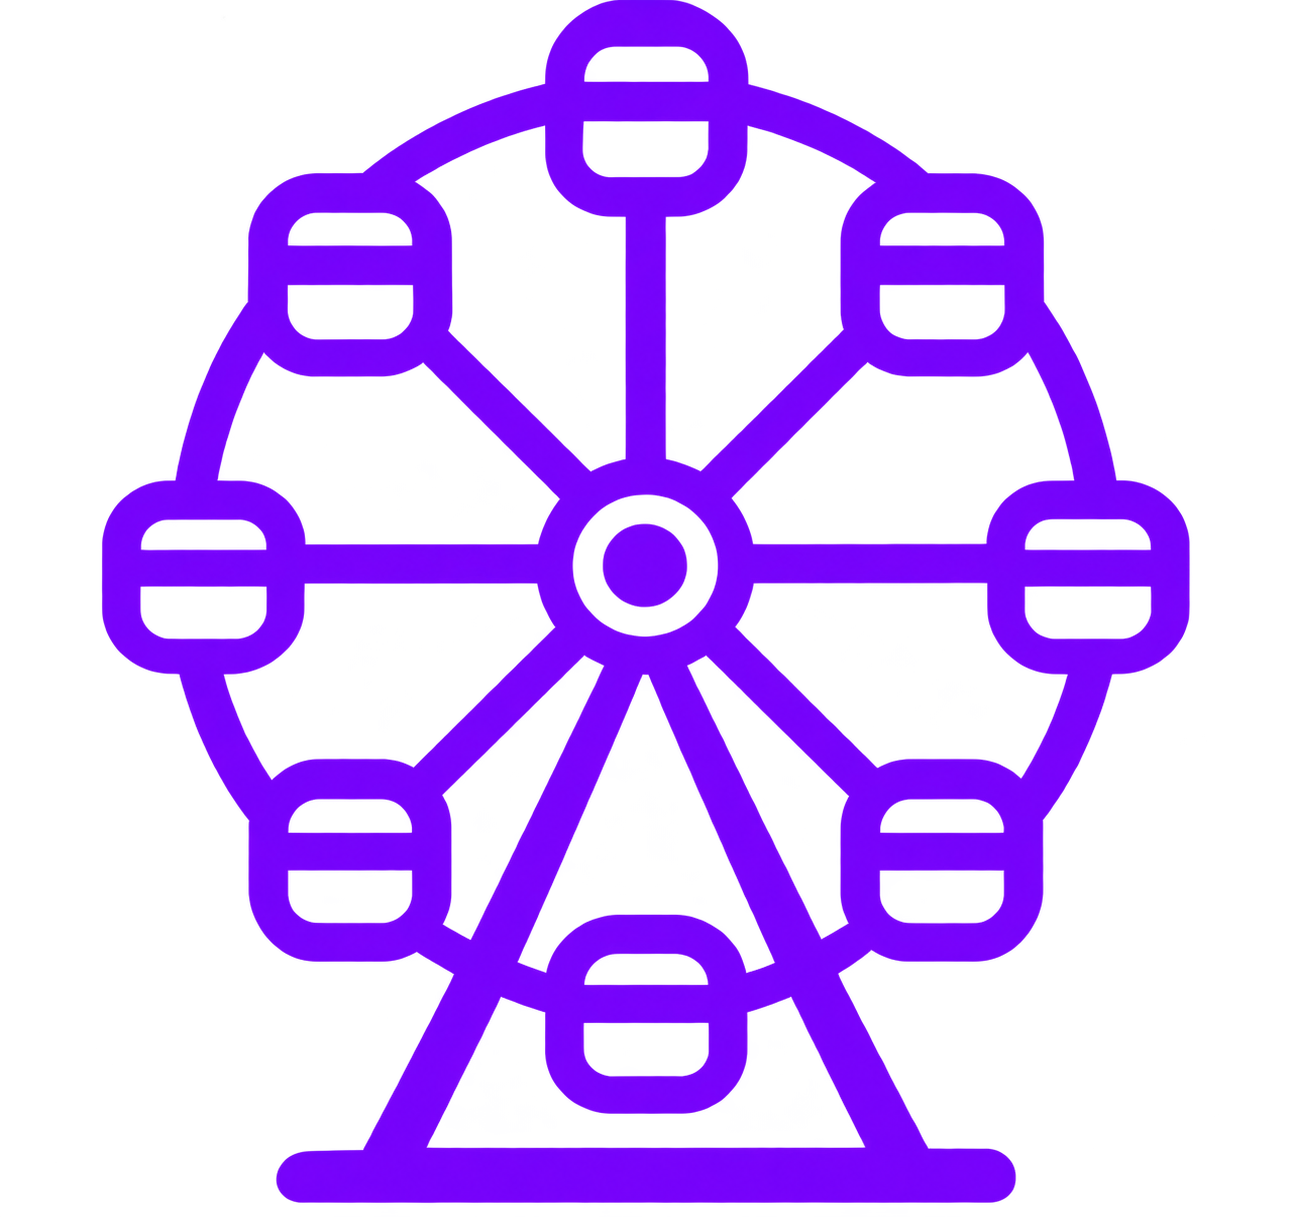
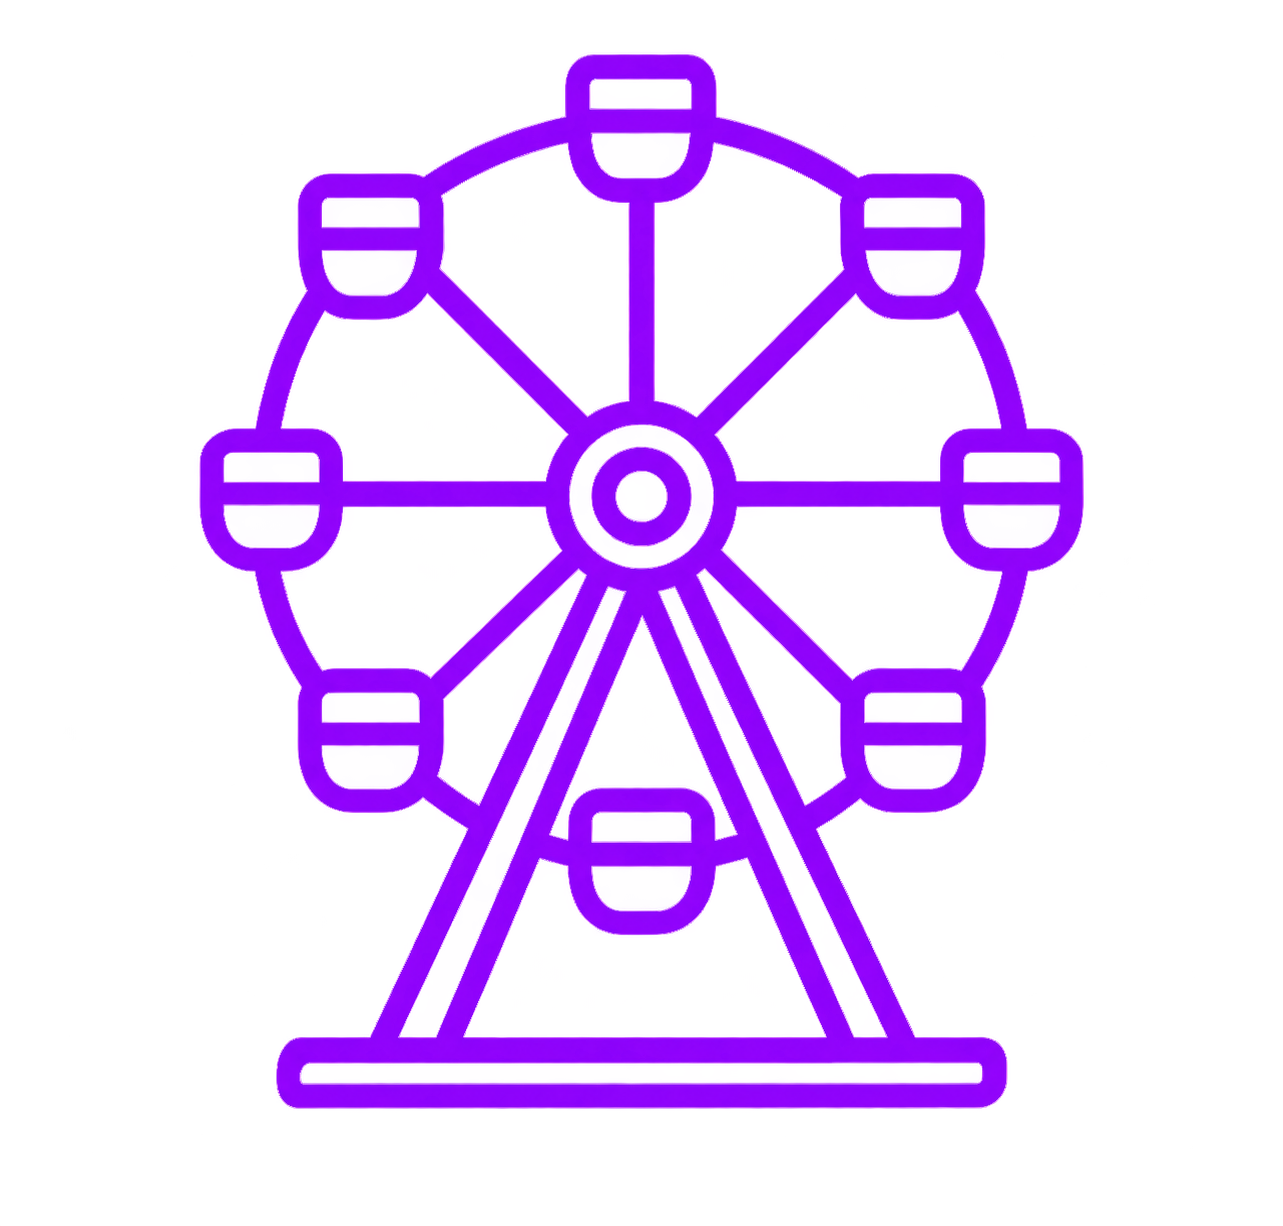
Add files via upload

diff --git a/pagina_comeco/css/style_comeco.css b/pagina_comeco/css/style_comeco.css
@@ -7,8 +7,15 @@
     font-family: 'Poppins', sans-serif;
 }
 
+html {
+    width: 100%;
+    overflow-x: hidden;
+}
+
 body {
     background-color: #f5f5f5;
+    width: 100%;
+    overflow-x: hidden;
 }
 
 /* Container principal */
@@ -27,6 +34,7 @@ header {
     justify-content: space-between;
     align-items: center;
     margin-top: 25px;
+    gap: 10px;
 }
 
 .saudacao h2 {
@@ -45,6 +53,7 @@ header {
     font-size: 23px;
     color: #222;
     cursor: pointer;
+    flex-shrink: 0;
 }
 
 /* Pesquisa */
@@ -57,11 +66,13 @@ header {
     margin: 25px auto 30px;
     box-shadow: 0 2px 4px #bbb;
     width: 90%;
+    min-width: 0;
 }
 
 .pesquisa i {
     font-size: 13px;
     color: #333;
+    flex-shrink: 0;
 }
 
 .pesquisa input {
@@ -69,6 +80,7 @@ header {
     outline: none;
     background: transparent;
     width: 100%;
+    min-width: 0;
     margin-left: 8px;
     font-size: 12px;
 }
@@ -87,6 +99,7 @@ header {
     width: 100%;
     height: 100%;
     object-fit: cover;
+    display: block;
 }
 
 .texto-banner {
@@ -103,29 +116,30 @@ header {
 }
 
 .botao-banner {
-    position: absolute;
-    right: 10px;
-    top: 50%;
-    transform: translateY(-50%);
     width: 42px;
     height: 42px;
+    background: #a020f0;
     border: none;
     border-radius: 50%;
-    background-color: #a64dff;
-    color: #000;
-    font-size: 20px;
     cursor: pointer;
+}
+
+.botao-banner i {
+    color: black;
+    font-size: 20px;
 }
 
 /* Menu de opções */
 .menu {
     display: grid;
-    grid-template-columns: repeat(2, 1fr);
+    grid-template-columns: repeat(2, minmax(0, 1fr));
     gap: 45px;
     margin-top: 35px;
 }
 
 .card {
+    width: 100%;
+    min-width: 0;
     height: 145px;
     background-color: white;
     border-radius: 8px;
@@ -138,6 +152,29 @@ header {
     color: #000;
     transition: 0.3s;
 }
+
+.icone-roda {
+    width: 50px;
+    height: 46px;
+}
+
+
+.icone-calendario {
+    width: 91px;
+    height: 64px;
+}
+
+.icone-mapa {
+    width: 91px;
+    height: 81px;
+}
+
+
+.icone-informacao {
+    width: 80px;
+    height: 80px;
+}
+
 
 .card:hover {
     transform: translateY(-4px);
@@ -176,6 +213,7 @@ header {
     display: flex;
     justify-content: space-around;
     align-items: center;
+    z-index: 10;
 }
 
 .menu-inferior a {
@@ -196,7 +234,27 @@ header {
     color: #888;
 }
 
-/* Responsividade */
+/* Tablets e telas médias */
+@media (min-width: 601px) and (max-width: 900px) {
+
+    .container {
+        padding: 25px 25px 90px;
+    }
+
+    .banner {
+        height: 170px;
+    }
+
+    .menu {
+        gap: 30px;
+    }
+
+    .card {
+        height: 130px;
+    }
+}
+
+/* Celulares */
 @media (max-width: 600px) {
 
     .container {
@@ -228,6 +286,12 @@ header {
         height: 95px;
     }
 
+    .banner img {
+        width: 100%;
+        height: 100%;
+        object-fit: cover;
+    }
+
     .texto-banner {
         left: 7px;
         bottom: 10px;
@@ -244,6 +308,7 @@ header {
     }
 
     .menu {
+        grid-template-columns: repeat(2, minmax(0, 1fr));
         gap: 50px;
         margin-top: 28px;
     }
@@ -272,5 +337,33 @@ header {
     .menu-inferior a {
         font-size: 10px;
     }
+}
 
+/* Celulares muito pequenos */
+@media (max-width: 360px) {
+
+    .container {
+        padding-left: 12px;
+        padding-right: 12px;
+    }
+
+    .menu {
+        gap: 35px;
+    }
+
+    .card p {
+        font-size: 9px;
+    }
+
+    .texto-banner h3 {
+        font-size: 11px;
+    }
+}
+
+/* Desktops maiores */
+@media (min-width: 1101px) {
+
+    .container {
+        max-width: 1100px;
+    }
 }

diff --git a/pagina_comeco/index_começo.html b/pagina_comeco/index_começo.html
@@ -53,7 +53,9 @@
             </div>
 
             <button class="botao-banner" id="btnBanner">
+               <button class="botao-banner" id="btnBanner">
                 <i class="fa-solid fa-chevron-right"></i>
+        </button>
             </button>
 
         </section>
@@ -64,22 +66,23 @@
             <div class="menu">
 
                 <a href="atracoes.html" class="card" data-nome="atrações">
-                    <i class="fa-solid fa-ferris-wheel"></i>
+                    <img src="img/roda.png" class="icone-roda" alt="Roda-gigante">
                     <p>Atrações</p>
                 </a>
 
+                
                 <a href="agendamento.html" class="card" data-nome="meu agendamento">
-                    <i class="fa-regular fa-calendar-days"></i>
+                    <img src="img/calendario.png" class="icone-calendario" alt="Calendário">
                     <p>Meu<br>Agendamento</p>
                 </a>
 
                 <a href="mapa.html" class="card" data-nome="mapa do parque">
-                    <i class="fa-solid fa-location-dot"></i>
+                    <img src="img/mapa.png" class="icone-mapa" alt="Mapa do Parque">
                     <p>Mapa do Parque</p>
                 </a>
 
                 <a href="informacao.html" class="card" data-nome="informação">
-                    <i class="fa-solid fa-circle-info"></i>
+                    <img src="img/informacoes.png" class="icone-informacao" alt="Informação">
                     <p>Informação</p>
                 </a>
 
